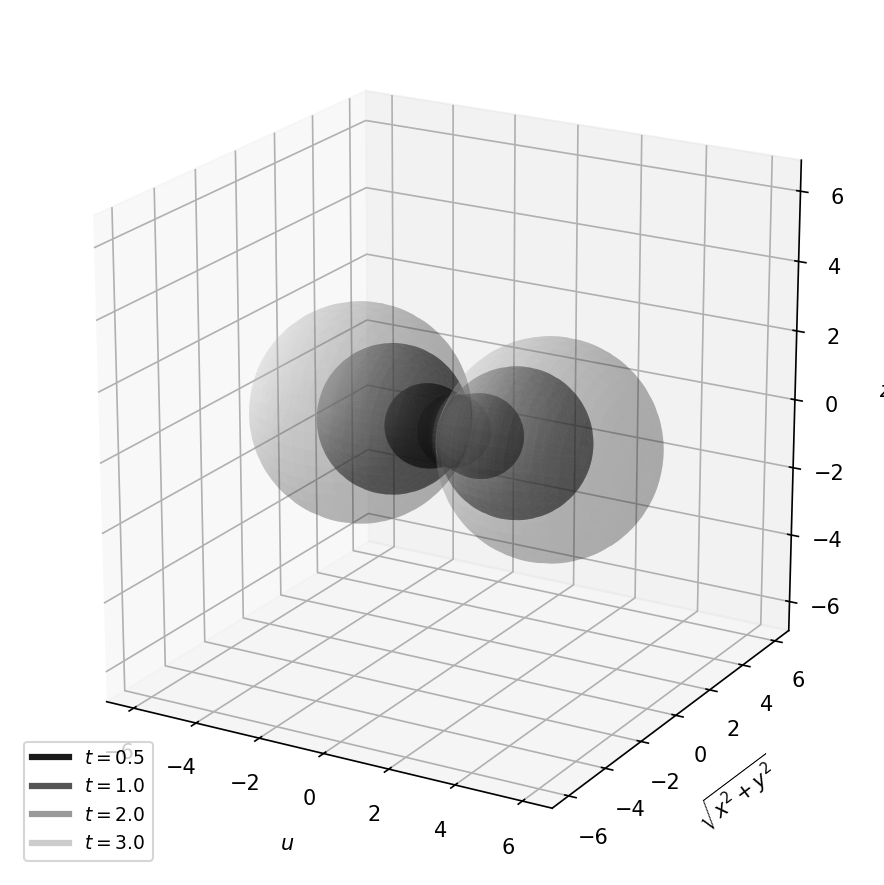
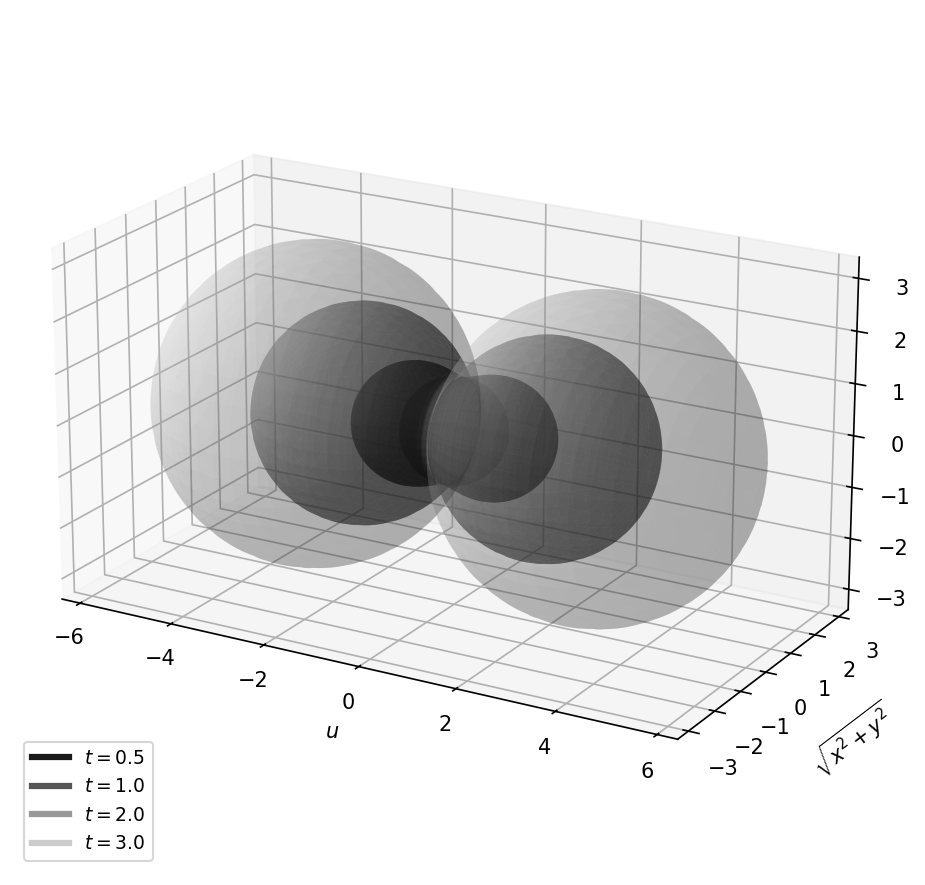
Auto-sync local changes 2026-09-21 10:39:58

diff --git a/scripts/hippopede_growth_3d.py b/scripts/hippopede_growth_3d.py
@@ -95,22 +95,17 @@ for t_val, color in sorted(zip(T_VALUES, COLORS)):
 ax.set_xlabel("$u$", labelpad=8)
 ax.set_ylabel(r"$\sqrt{x^2+y^2}$", labelpad=8)
 ax.set_zlabel("$z$", labelpad=8)
-ax.legend(loc="lower left", fontsize=9)
 ax.view_init(elev=20, azim=-60)
 
-# Equal physical scale on all three axes: expand shorter axes to the max range.
-x_lims = ax.get_xlim3d()
-y_lims = ax.get_ylim3d()
-z_lims = ax.get_zlim3d()
-ranges    = [x_lims[1] - x_lims[0], y_lims[1] - y_lims[0], z_lims[1] - z_lims[0]]
-max_range = max(ranges)
-x_mid = sum(x_lims) / 2
-y_mid = sum(y_lims) / 2
-z_mid = sum(z_lims) / 2
-ax.set_xlim3d(x_mid - max_range / 2, x_mid + max_range / 2)
-ax.set_ylim3d(y_mid - max_range / 2, y_mid + max_range / 2)
-ax.set_zlim3d(z_mid - max_range / 2, z_mid + max_range / 2)
-ax.set_box_aspect([1, 1, 1])
+# Tight proportional limits: t=3 surface spans u∈[-6,6] but y/z∈[-3,3].
+# set_box_aspect matches the physical scale to these data ranges (no distortion).
+pad = 0.4
+ax.set_xlim3d(-6 - pad, 6 + pad)
+ax.set_ylim3d(-3 - pad, 3 + pad)
+ax.set_zlim3d(-3 - pad, 3 + pad)
+ax.set_box_aspect([12.8, 6.8, 6.8])
+
+ax.legend(loc="lower left", fontsize=9)
 
 plt.tight_layout()
 plt.savefig(OUT, dpi=150, bbox_inches="tight")
